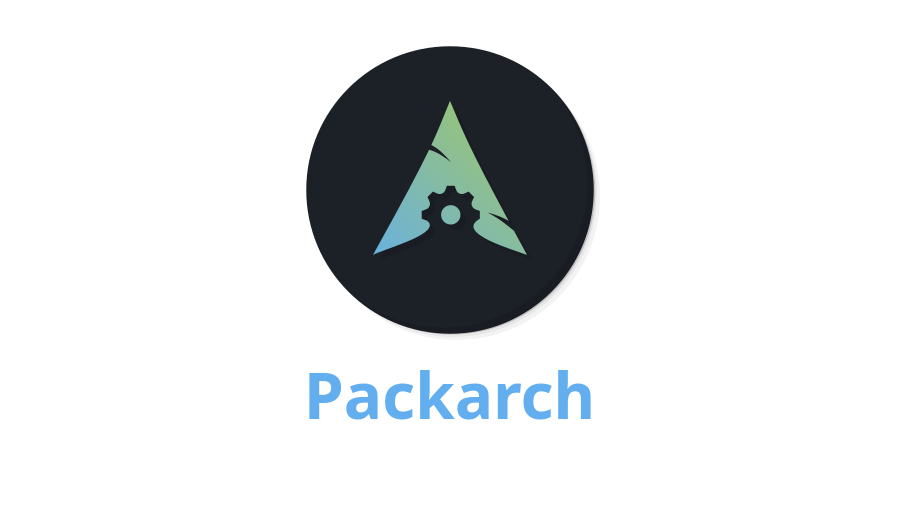
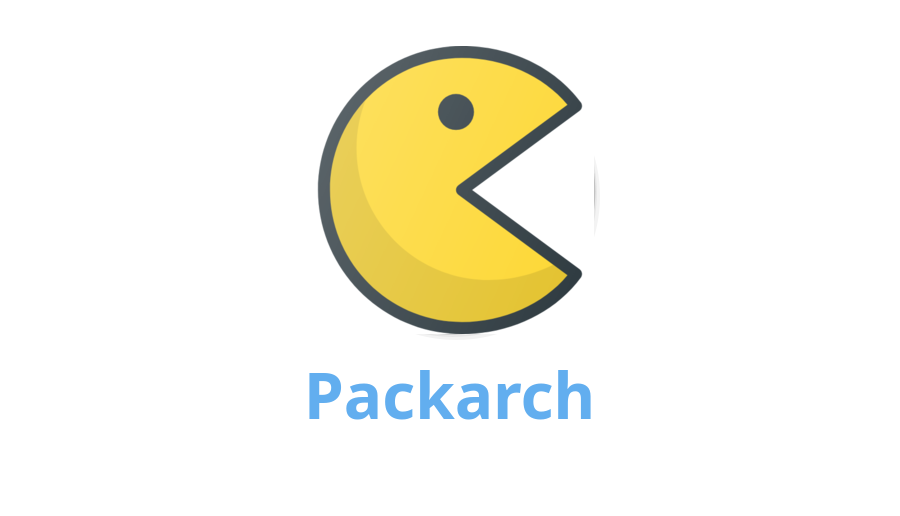
Calamares : icône Pac-Man de Packarch
logo.png, icon.png, welcome.png et packarch.png (diaporama, à la place
de logo.svg).

Changed region(s): [[0.3422, 0.062, 0.6844, 0.6512]]

diff --git a/archiso/airootfs/etc/calamares/branding/packarch/show.qml b/archiso/airootfs/etc/calamares/branding/packarch/show.qml
@@ -52,7 +52,7 @@ Presentation
 
             Image {
                 anchors.horizontalCenter: parent.horizontalCenter
-                source: "logo.svg"
+                source: "packarch.png"
                 width: slide.height * 0.22
                 height: width
                 sourceSize.width: width

diff --git a/MODIFS.md b/MODIFS.md
@@ -1035,8 +1035,11 @@ thèmes dans `/etc/calamares/branding/`, pas dans `/etc/xdg`), sélectionné par
 Il reprend la disposition du thème `cachyos` (barre des étapes en bas,
 `calamares-sidebar.qml` et `stylesheet.qss` inchangés), avec :
 
-- le logo de Packarch Hello (`logo.svg`, `logo.png` 64 px, `icon.png`
-  128 px) et une image d'accueil `welcome.png` (logo et nom) ;
+- l'icône Pac-Man `packarch.png` de Packarch (`logo.png` 64 px, `icon.png`
+  128 px, `packarch.png` 512 px pour le diaporama), et une image d'accueil
+  `welcome.png` (icône et nom) ; c'est la même que `/usr/share/pixmaps/packarch.png`
+  de `packarch-system-settings` 1.0-8 (avatar par défaut de LightDM, logo de
+  fastfetch dans kitty) ;
 - les couleurs du logo : barre `#1c2027`, étape en cours `#62aeef` ;
 - un diaporama `show.qml` en français dessiné en QML (pas d'images à
   traduire), six pages : Packarch, les deux bureaux, le sélecteur de thèmes,
